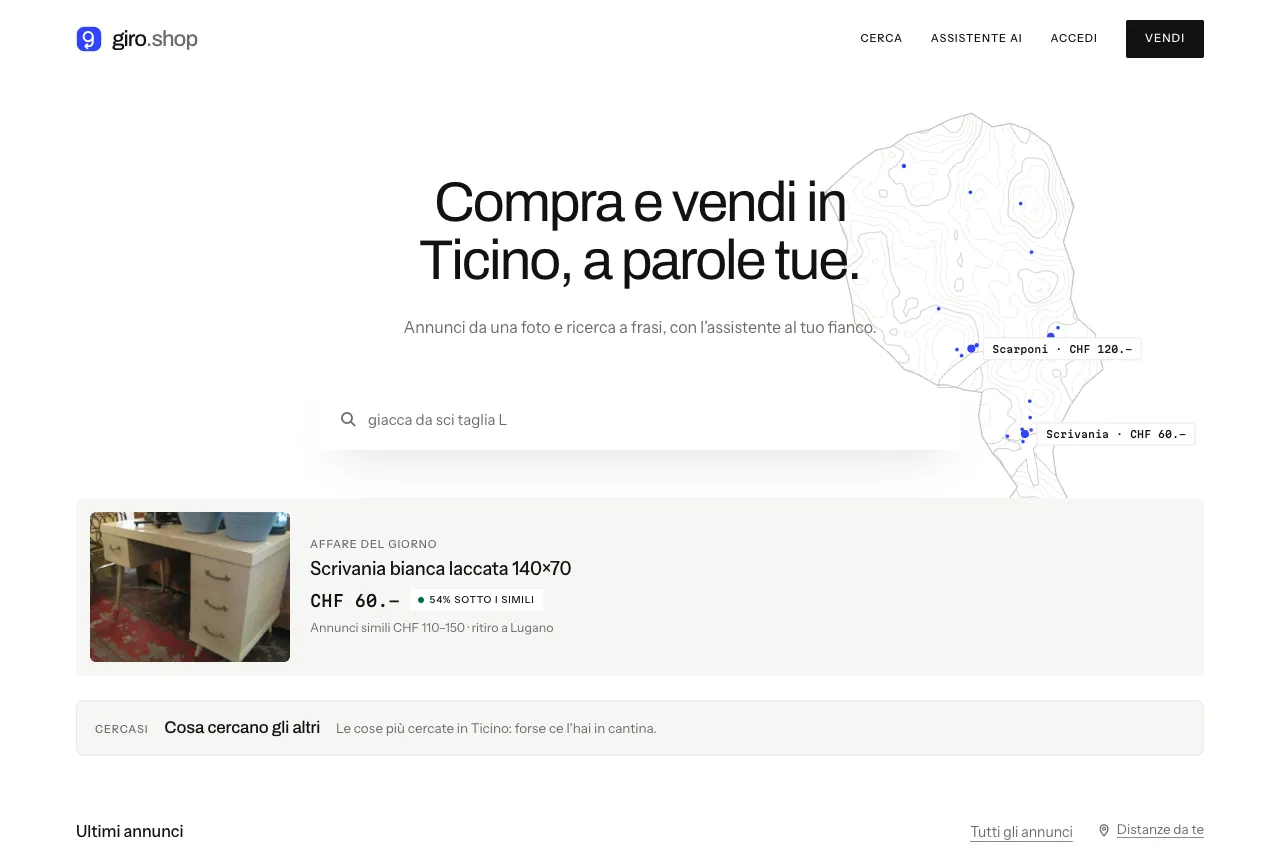
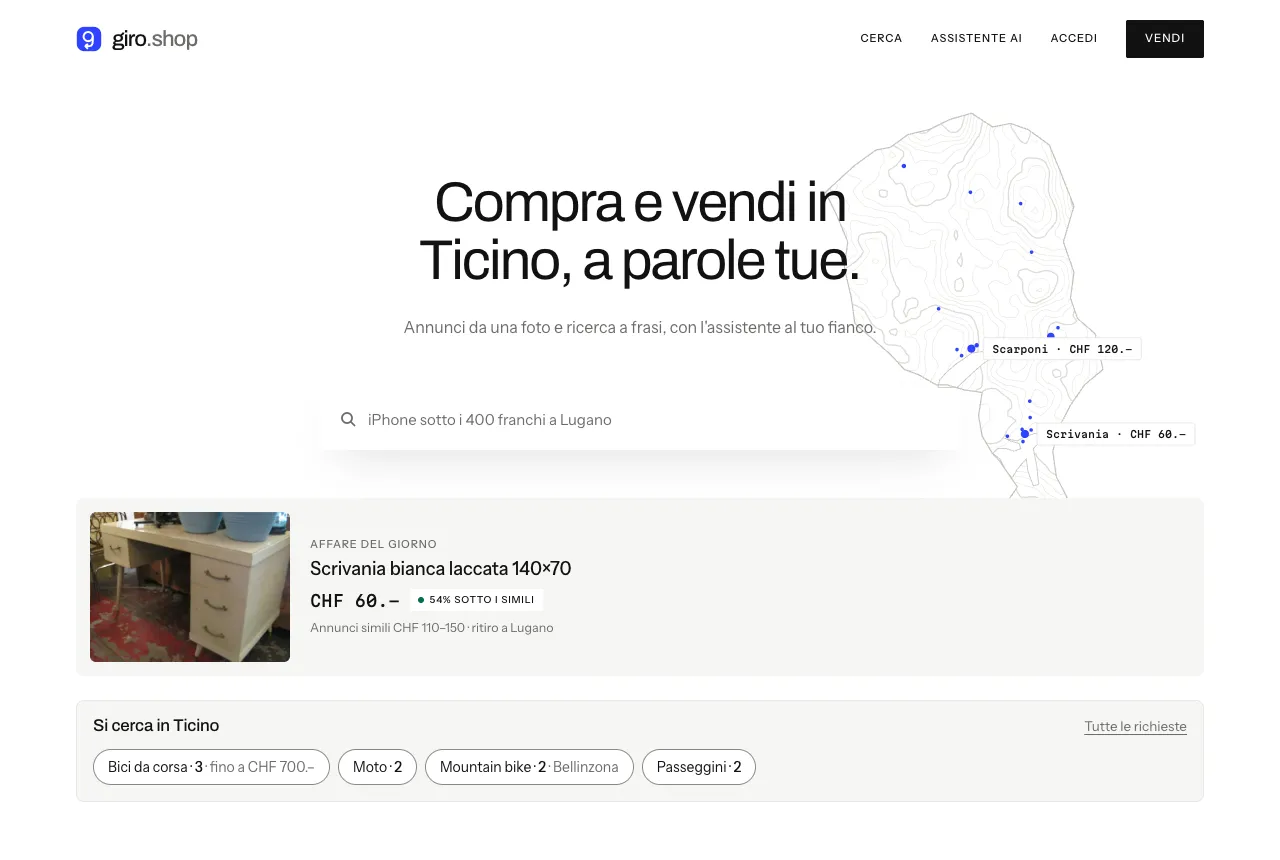
Home: striscia «Si cerca in Ticino» al posto del riquadro Cercasi
Le richieste più frequenti delle ricerche salvate come etichette da scorrere,
prima quelle della propria zona; un tocco apre «Ce l'ho, lo vendo»,
«Lo cerco anch'io» e «Vedi gli annunci». Chi vende vede in testa il proprio
annuncio più cercato. Isola del server: la home resta in cache; con meno di
due richieste resta il riquadro semplice. Test nel browser, README e screenshot.

diff --git a/e2e/cercasi.spec.ts b/e2e/cercasi.spec.ts
@@ -14,7 +14,9 @@ const queries = ['bici da corsa sotto i 900 franchi', 'bici da corsa max 700', '
 test.beforeAll(async () => {
   for (const [i, email] of searchers.entries()) {
     const { data } = await admin.auth.admin.createUser({ email, email_confirm: true, user_metadata: { display_name: `Cerca ${i}` } });
-    await admin.from('alerts').insert({ user_id: data.user!.id, query: queries[i], filters: {} });
+    // Tre cercano una bici da corsa, due anche un passeggino: due richieste, abbastanza per la striscia in home
+    const mine = [queries[i], ...(i < 2 ? ['passeggino trio'] : [])];
+    await admin.from('alerts').insert(mine.map((query) => ({ user_id: data.user!.id, query, filters: {} })));
   }
 });
 
@@ -33,6 +35,19 @@ test('Cercasi mostra cosa cercano le persone, senza nomi', async ({ page }) => {
   await row.getByRole('link', { name: "Ce l'ho, lo vendo" }).click();
   await expect(page).toHaveURL(/\/vendi\?nota=bici/);
   await expect(page.getByLabel('Due righe, se vuoi')).toHaveValue('bici da corsa');
+});
+
+test('in home la striscia «Si cerca»: un tocco e si vende o si cerca anche', async ({ page }) => {
+  await page.goto('/');
+  const chip = page.locator('.ws-chip', { hasText: 'Bici da corsa' });
+  await expect(chip).toContainText('3');
+  await expect(page.locator('.ws-chip', { hasText: 'Passeggini' })).toContainText('2');
+  await chip.click();
+  const pick = page.locator('.ws-pick');
+  await expect(pick).toContainText('3 persone cercano «Bici da corsa»');
+  await expect(pick.getByRole('link', { name: "Ce l'ho, lo vendo" })).toHaveAttribute('href', '/vendi?nota=bici%20da%20corsa');
+  await pick.getByRole('button', { name: "Lo cerco anch'io" }).click();
+  await expect(page).toHaveURL(/\/accedi\?next=%2F/);
 });
 
 test('nella bozza: lo cercano in 3, con i budget', async ({ page }) => {

diff --git a/scripts/screenshots.ts b/scripts/screenshots.ts
@@ -135,6 +135,8 @@ const { data: alerts } = await admin
   .insert(wanted.map(([query, i]) => ({ user_id: people![i % people!.length].id, query, filters: {} })))
   .select('id');
 cleanup.push(() => admin.from('alerts').delete().in('id', alerts!.map((a) => a.id)));
+// Il sito rilegge le ricerche salvate al massimo ogni 20 secondi: si aspetta, così la home le mostra già
+await wait(21_000);
 
 // Partner locali (anche il trasporto per i mobili grandi, nella scheda annuncio)
 const { data: partners } = await admin

diff --git a/README.md b/README.md
@@ -53,6 +53,10 @@ Supabase in locale ([come](deploy/macmini/LEGGIMI.md)).
 - **Affare del giorno** in home e pagina **Confronta** per mettere annunci uno accanto all'altro.
 - **Cercasi:** cosa cercano le persone in Ticino, dalle ricerche salvate, per oggetto e zona, con il budget tipico. Solo
   numeri aggregati e solo dove le persone sono almeno due; «Ce l'ho, lo vendo» apre Vendi con l'oggetto già scritto.
+- **«Si cerca in Ticino»** in home: le stesse richieste come striscia di etichette (si scorre col dito), prima quelle
+  della propria zona. Un tocco apre «Ce l'ho, lo vendo», «Lo cerco anch'io» (salva la stessa ricerca e fa crescere il
+  conto) e «Vedi gli annunci»; chi vende vede in testa il proprio annuncio più cercato. Si carica a parte (isola del
+  server), così la home resta in cache uguale per tutti; con meno di due richieste resta il riquadro semplice.
 
 <p>
   <img src="docs/screenshots/02-ricerca.webp" alt="Una frase diventa filtri: categoria, prezzo, zona, materiale" width="49%">
@@ -294,7 +298,7 @@ La CLI di Supabase e pnpm hanno versioni fisse nel progetto.
 | Comando | Cosa verifica |
 | --- | --- |
 | `pnpm test` | 129 test unitari: ricerca, significato, stime, bozze, avvisi, email, OAuth, SEO, MCP, ribassi, ritiri, assistente venditore, rischio truffa, domanda, Svuota casa, prezzi in blocco, import del catalogo, commissioni |
-| `pnpm test:e2e` | 28 test nel browser (Playwright con il Chrome installato), con accessi veri via email: ricerca, significato, distanze, Scatta e vendi, avviso per significato, offerta accettata, ritiro e vendita confermata, assistente venditore, avvisi anti-truffa e moderazione, Cercasi e «lo cercano in», Svuota casa, vetrina mirata, auto a pagamento, negozio Pro, partner, pagamento protetto, ricerca salvata, email, collegare un assistente |
+| `pnpm test:e2e` | 29 test nel browser (Playwright con il Chrome installato), con accessi veri via email: ricerca, significato, distanze, Scatta e vendi, avviso per significato, offerta accettata, ritiro e vendita confermata, assistente venditore, avvisi anti-truffa e moderazione, Cercasi, la striscia in home e «lo cercano in», Svuota casa, vetrina mirata, auto a pagamento, negozio Pro, partner, pagamento protetto, ricerca salvata, email, collegare un assistente |
 | `pnpm test:db` | 117 controlli di sicurezza sul database con utenti temporanei (RLS, permessi, trigger, pagamenti, tariffe) |
 | `pnpm test:moderazione` | 37 controlli sull'agente di moderazione con un modello finto che segue un copione |
 | `pnpm test:oauth` | 25 controlli sul login OAuth del connettore con il client MCP ufficiale |
